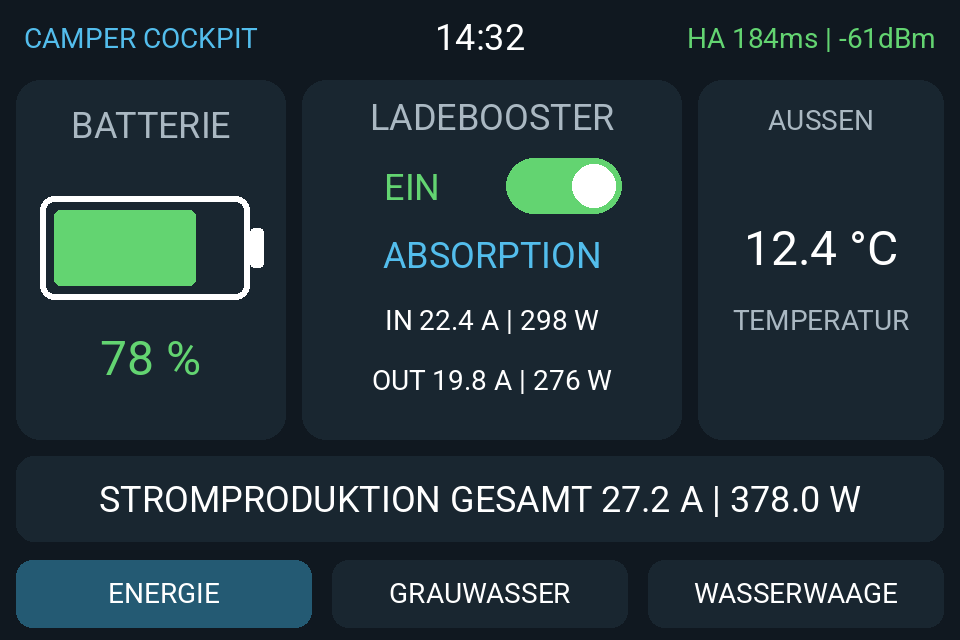
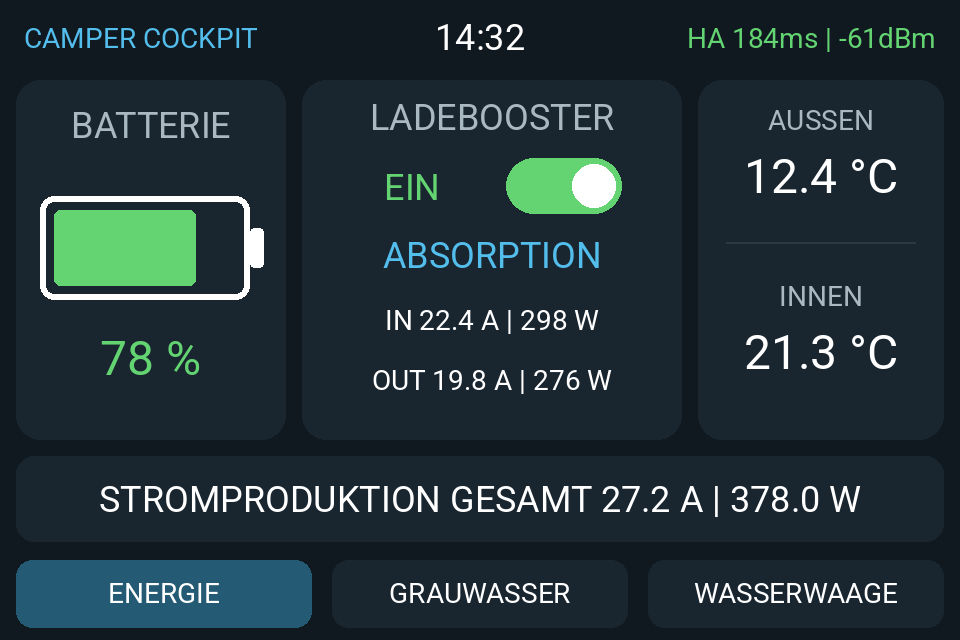
Innentemperatur hinzugefügt

Changed region(s): [[0.7812, 0.3438, 0.9375, 0.5938], [0.7812, 0.25, 0.9375, 0.3125]]

diff --git a/README.md b/README.md
@@ -8,7 +8,7 @@ Ein Touch-Display fürs Cockpit von Wohnmobil oder Camper: Energie, Grauwasserta
 
 ## Funktionen
 
-- **Energie:** Batterie-Ladezustand, Ladebooster schalten, DC-DC-Wandler (Zustand, Ein-/Ausgang), Gesamtproduktion, Außentemperatur
+- **Energie:** Batterie-Ladezustand, Ladebooster schalten, DC-DC-Wandler (Zustand, Ein-/Ausgang), Gesamtproduktion, Außen- und Innentemperatur
 - **Grauwasser:** Kamera und Flutlicht schalten, Livebild per Fingertipp
 - **Wasserwaage:** Libelle mit einstellbaren Toleranzringen, Längs- und Querneigung, Keilplan mit Keilhöhe je Rad
 - **Kamera:** MJPEG-Livebild mit Zielkreuz, direkt aus Home Assistant

diff --git a/CHANGELOG.md b/CHANGELOG.md
@@ -2,7 +2,7 @@
 
 ## v1.0.0 – erste öffentliche Version
 
-- Vier Seiten: Energie, Grauwasser, Wasserwaage mit Keilplan, Kamera-Livebild
+- Vier Seiten: Energie (mit Außen- und Innentemperatur), Grauwasser, Wasserwaage mit Keilplan, Kamera-Livebild
 - Konfiguration als ESPHome-Paket: alle Entitäten und Zugangsdaten in der eigenen Gerätedatei
 - Wasserwaage per Push über die native API (kein Polling), Libelle mit einstellbaren Toleranzringen
 - Keilplan: Keilhöhe je Rad aus Spurbreite und Radstand

diff --git a/docs/home-assistant.md b/docs/home-assistant.md
@@ -34,6 +34,7 @@ Alle Einträge gehören in die Gerätedatei unter `substitutions`. Die Entitäts
 | `entity_production_current` | Sensor | Gesamtproduktion Strom |
 | `entity_production_power` | Sensor | Gesamtproduktion Leistung |
 | `entity_outside_temp` | Sensor | Außentemperatur |
+| `entity_inside_temp` | Sensor | Innentemperatur |
 
 Die fünf Zustands-Binärsensoren entsprechen dem, was die Victron-Integration für Orion-DC-DC-Wandler liefert. Ein Wert ist „on“, die anderen „off“.
 
